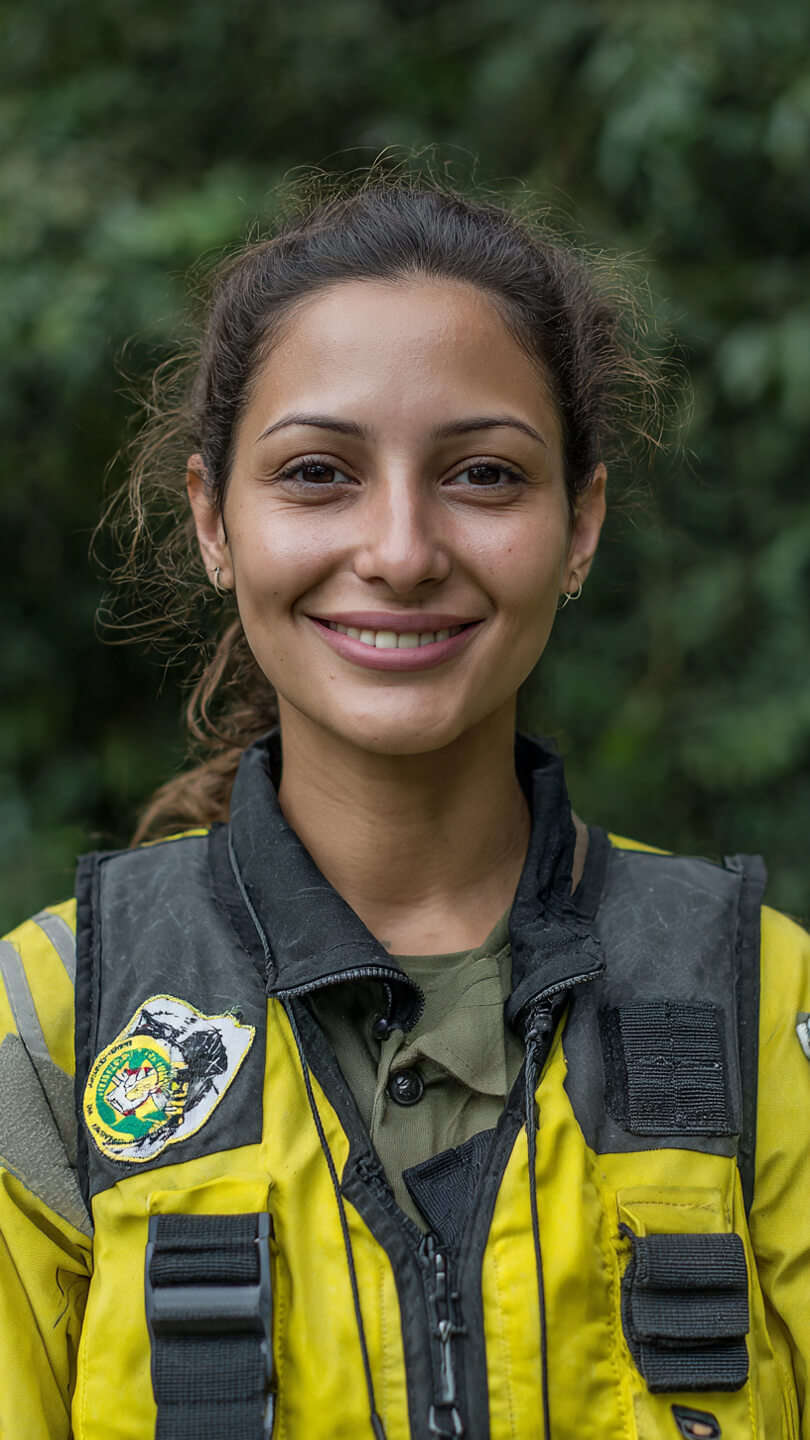
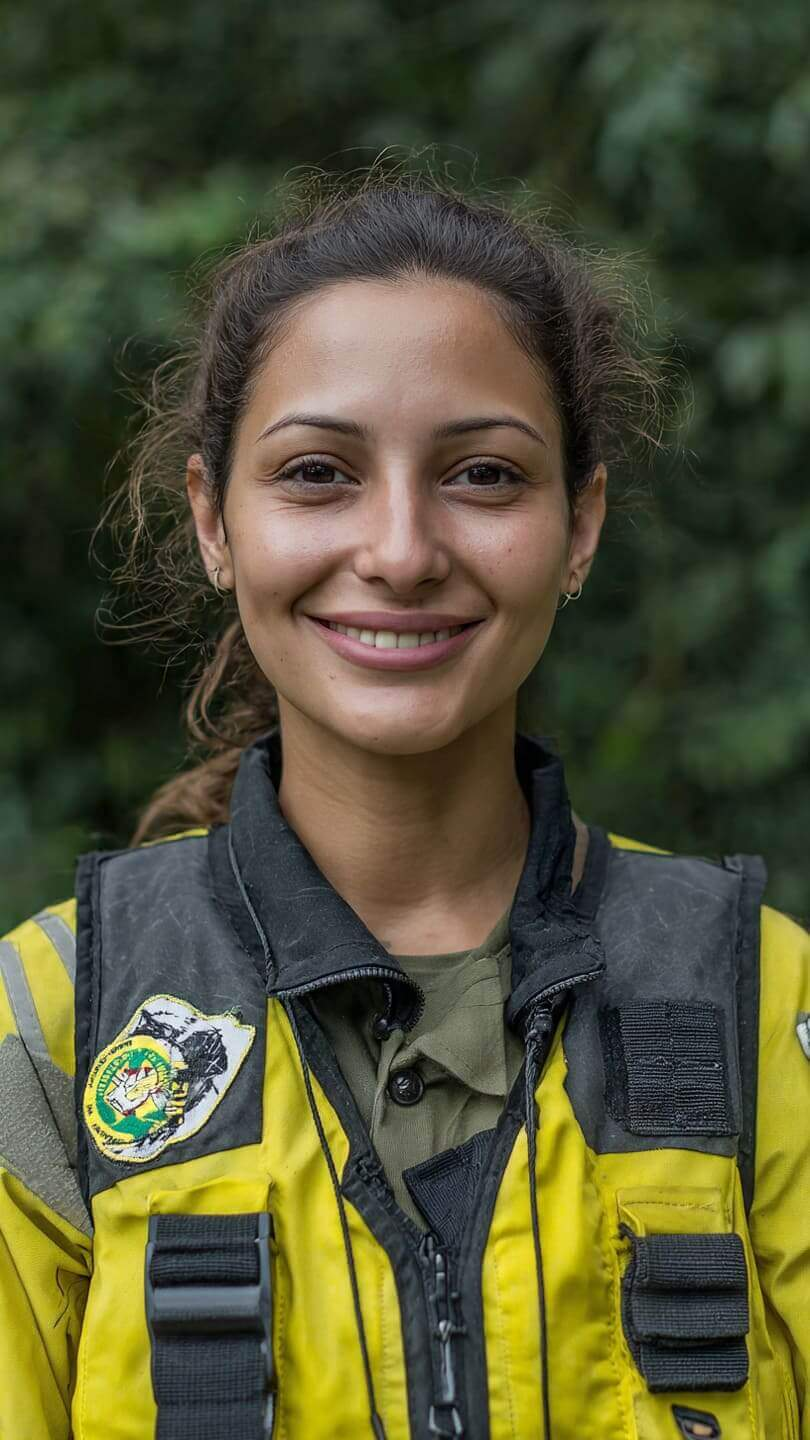
add nav rede sociais

diff --git a/contato.html b/contato.html
@@ -1,20 +1,21 @@
-<!DOCTYPE html>
+<!doctype html>
 <html lang="pt-BR">
 <head>
     <meta charset="UTF-8">
     <meta name="viewport" content="width=device-width, initial-scale=1.0">
     <meta name="description" content="Entre em contato com a Rafting Adventures. Envie dúvidas, perguntas sobre reserva ou sugestões.">
+    <meta name="author" content="Keyla Vidal">
     <title>Fale Conosco - Rafting Adventures</title>
     <link rel="stylesheet" href="estilos/rafting.css">
 </head>
 <body>
     <header>
-       
+        <img src="imagens/logo.jpg" alt="Logo Rafting Adventures">
         <nav>
-            <a href="index.html">Início</a>
-            <a href="sobre.html">Sobre</a>
-            <a href="trips.html">Passeios</a>
-            <a href="contato.html">Fale Conosco</a>
+          <a href="index.html">Página Inicial</a>
+          <a href="sobre.html">Sobre Nós</a>
+          <a href="passeios.html">Passeios</a>
+          <a href="contato.html">Fale Conosco</a>
         </nav>
     </header>
 
@@ -79,12 +80,12 @@
     </main>
 
     <footer>
-        <p>&copy; 2026 Rafting Adventures | Keyla Vidal</p>
-        <nav class="sociallinks">
-            <a href="#"><img src="imagens/facebook.jpg" alt="Facebook"></a>
-            <a href="#"><img src="imagens/instagram.jpg" alt="Instagram"></a>
-            <a href="#"><img src="imagens/linkedin.jpg" alt="LinkedIn"></a>
-        </nav>
-    </footer>
+      <p>© 2026 Rafting Adventures | Keyla Vidal</p>
+       <nav class="redes-sociais">
+         <a href="https://facebook.com"><img src="imagens/facebook.jpg" alt="Facebook"></a>
+         <a href="https://instagram.com"><img src="imagens/instagram.jpg" alt="Instagram"></a>
+        <a href="https://linkedin.com"><img src="imagens/linkedin.jpg" alt="LinkedIn"></a>
+       </nav>
+   </footer>
 </body>
 </html>

diff --git a/sobre.html b/sobre.html
@@ -57,12 +57,12 @@
         </section>
     </main>
     <footer>
-        <p>©; 2026 Rafting Adventures | Keyla Vidal</p>
-        <nav class="social">
-            <a href="#"><img src="imagens/facebook.jpg" alt="Facebook"></a>
-            <a href="#"><img src="imagens/instagram.jpg" alt="Instagram"></a>
-            <a href="#"><img src="imagens/linkedin.jpg" alt="LinkedIn"></a>
-        </nav>
+       <p>© 2026 Rafting Adventures | Keyla Vidal</p>
+         <nav class="redes-sociais">
+          <a href="https://facebook.com"><img src="imagens/facebook.jpg" alt="Facebook"></a>
+          <a href="https://instagram.com"><img src="imagens/instagram.jpg" alt="Instagram"></a>
+          <a href="https://linkedin.com"><img src="imagens/linkedin.jpg" alt="LinkedIn"></a>
+         </nav>
     </footer>
 </body>
 </html>
